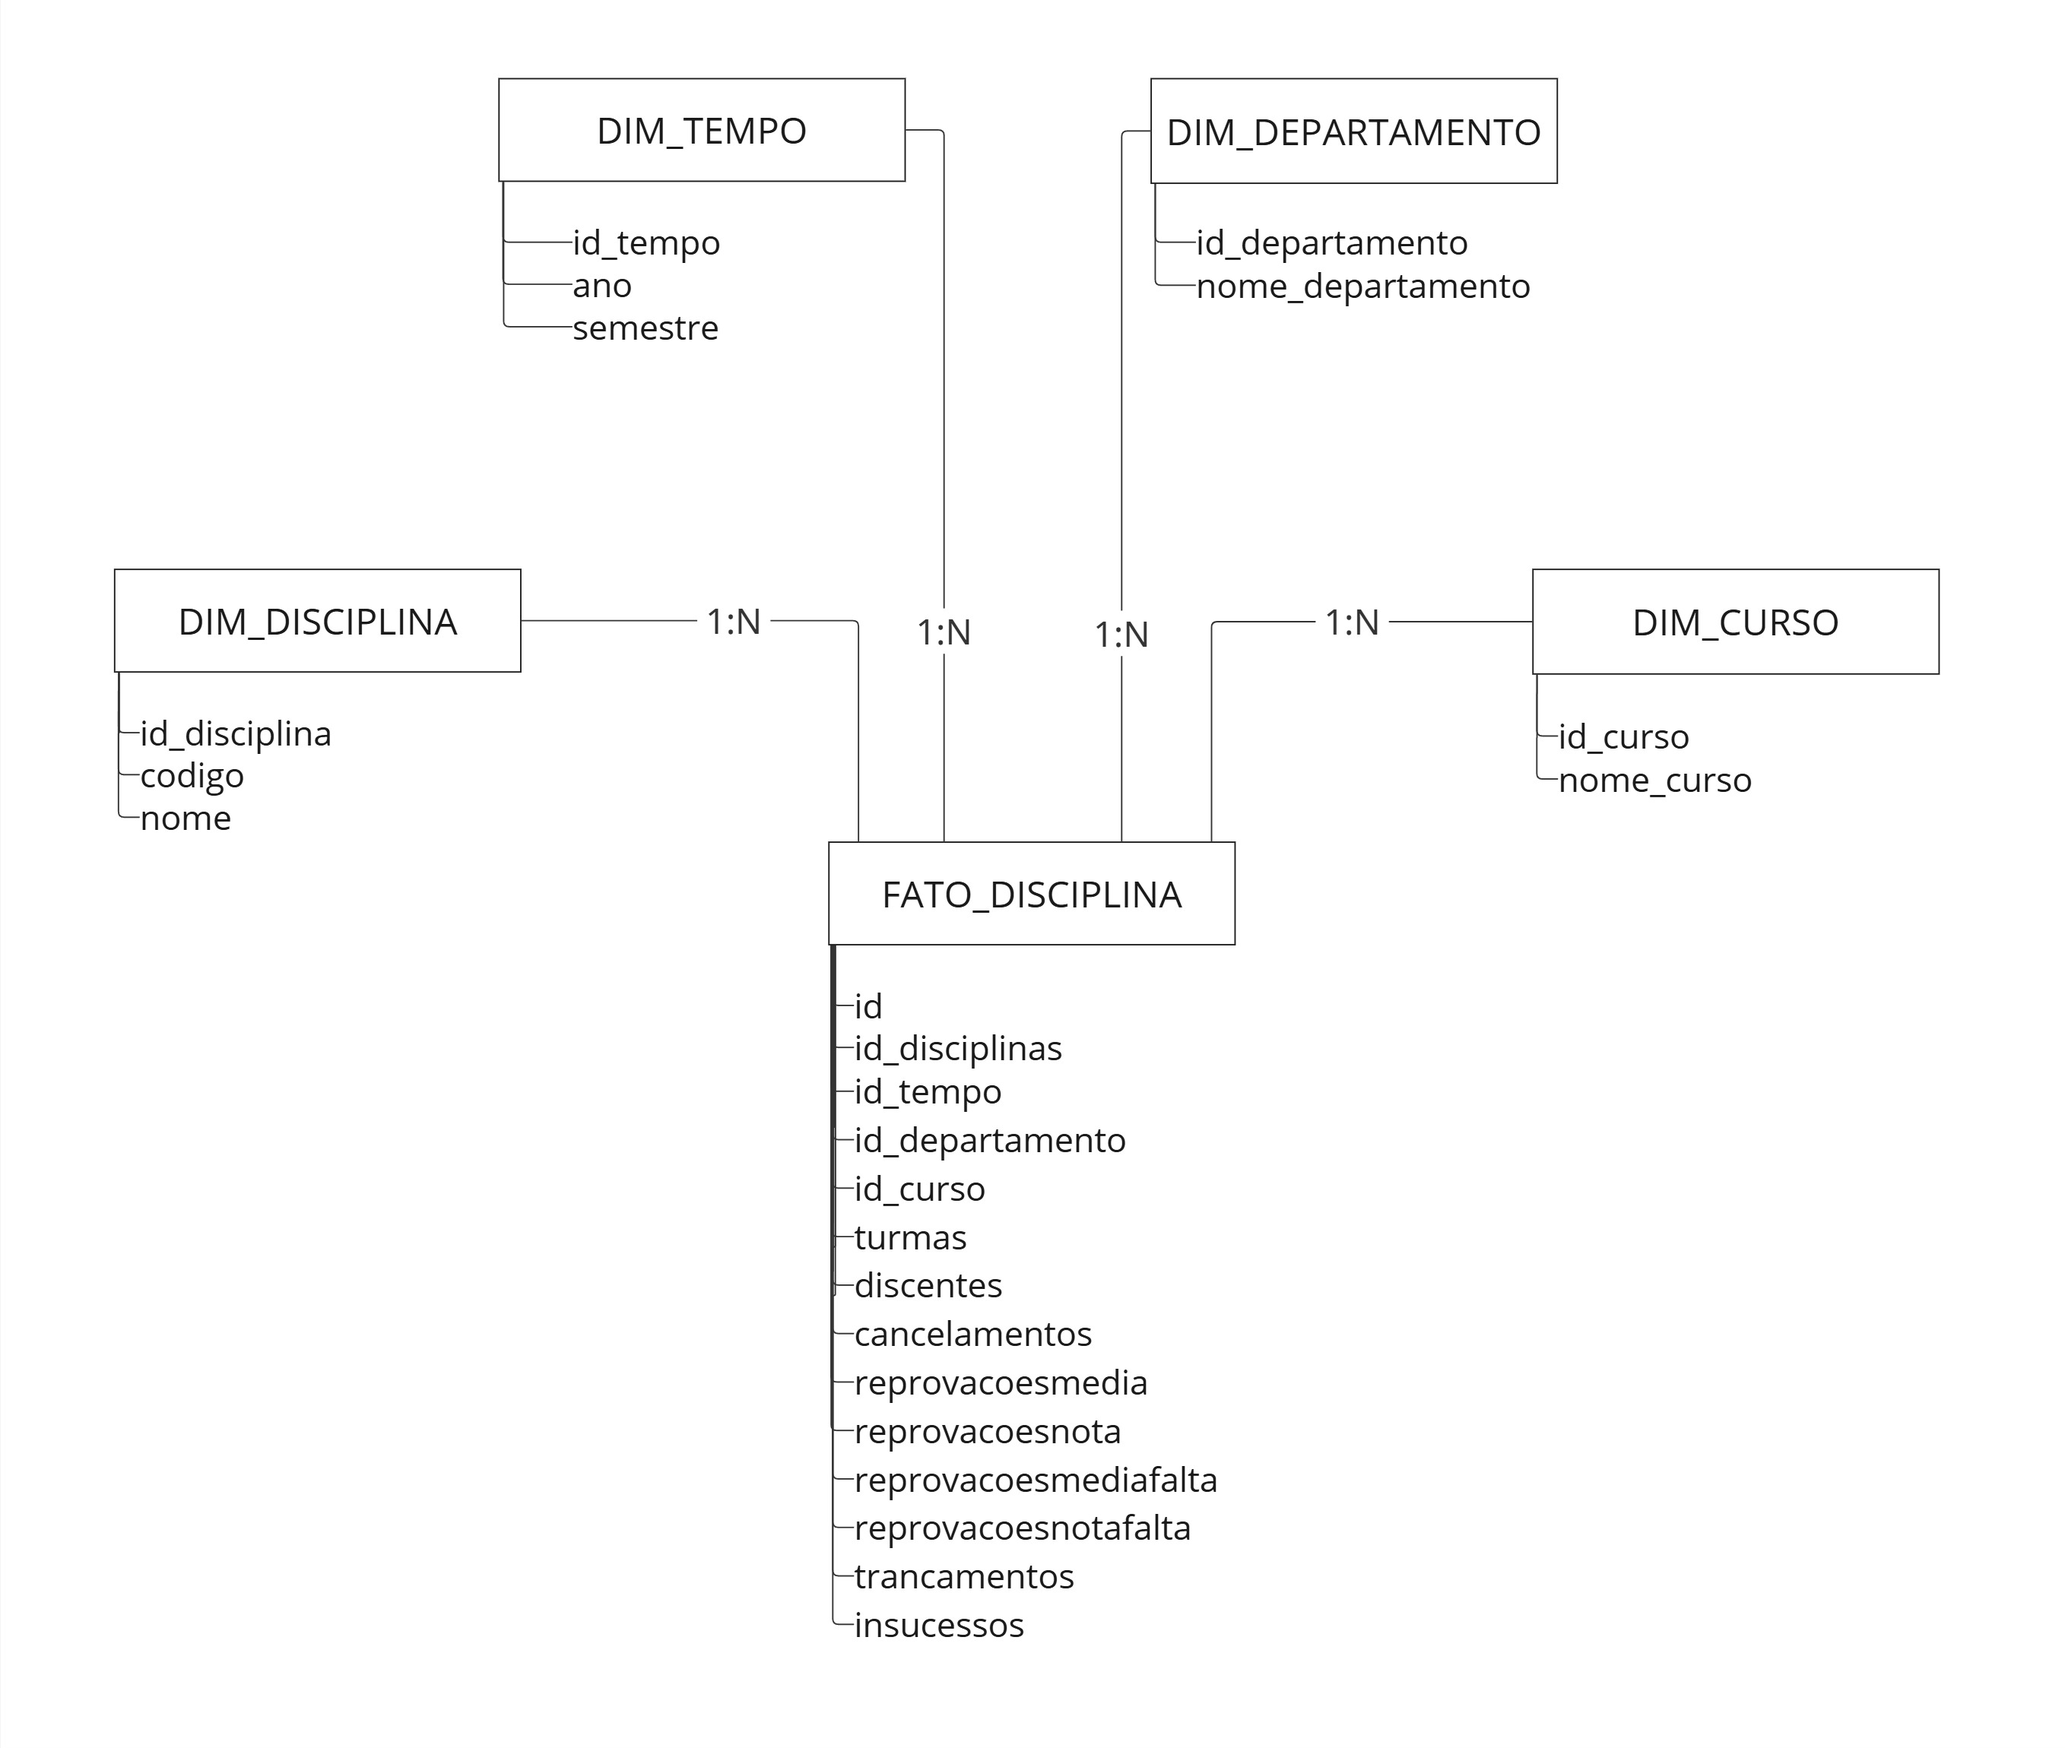
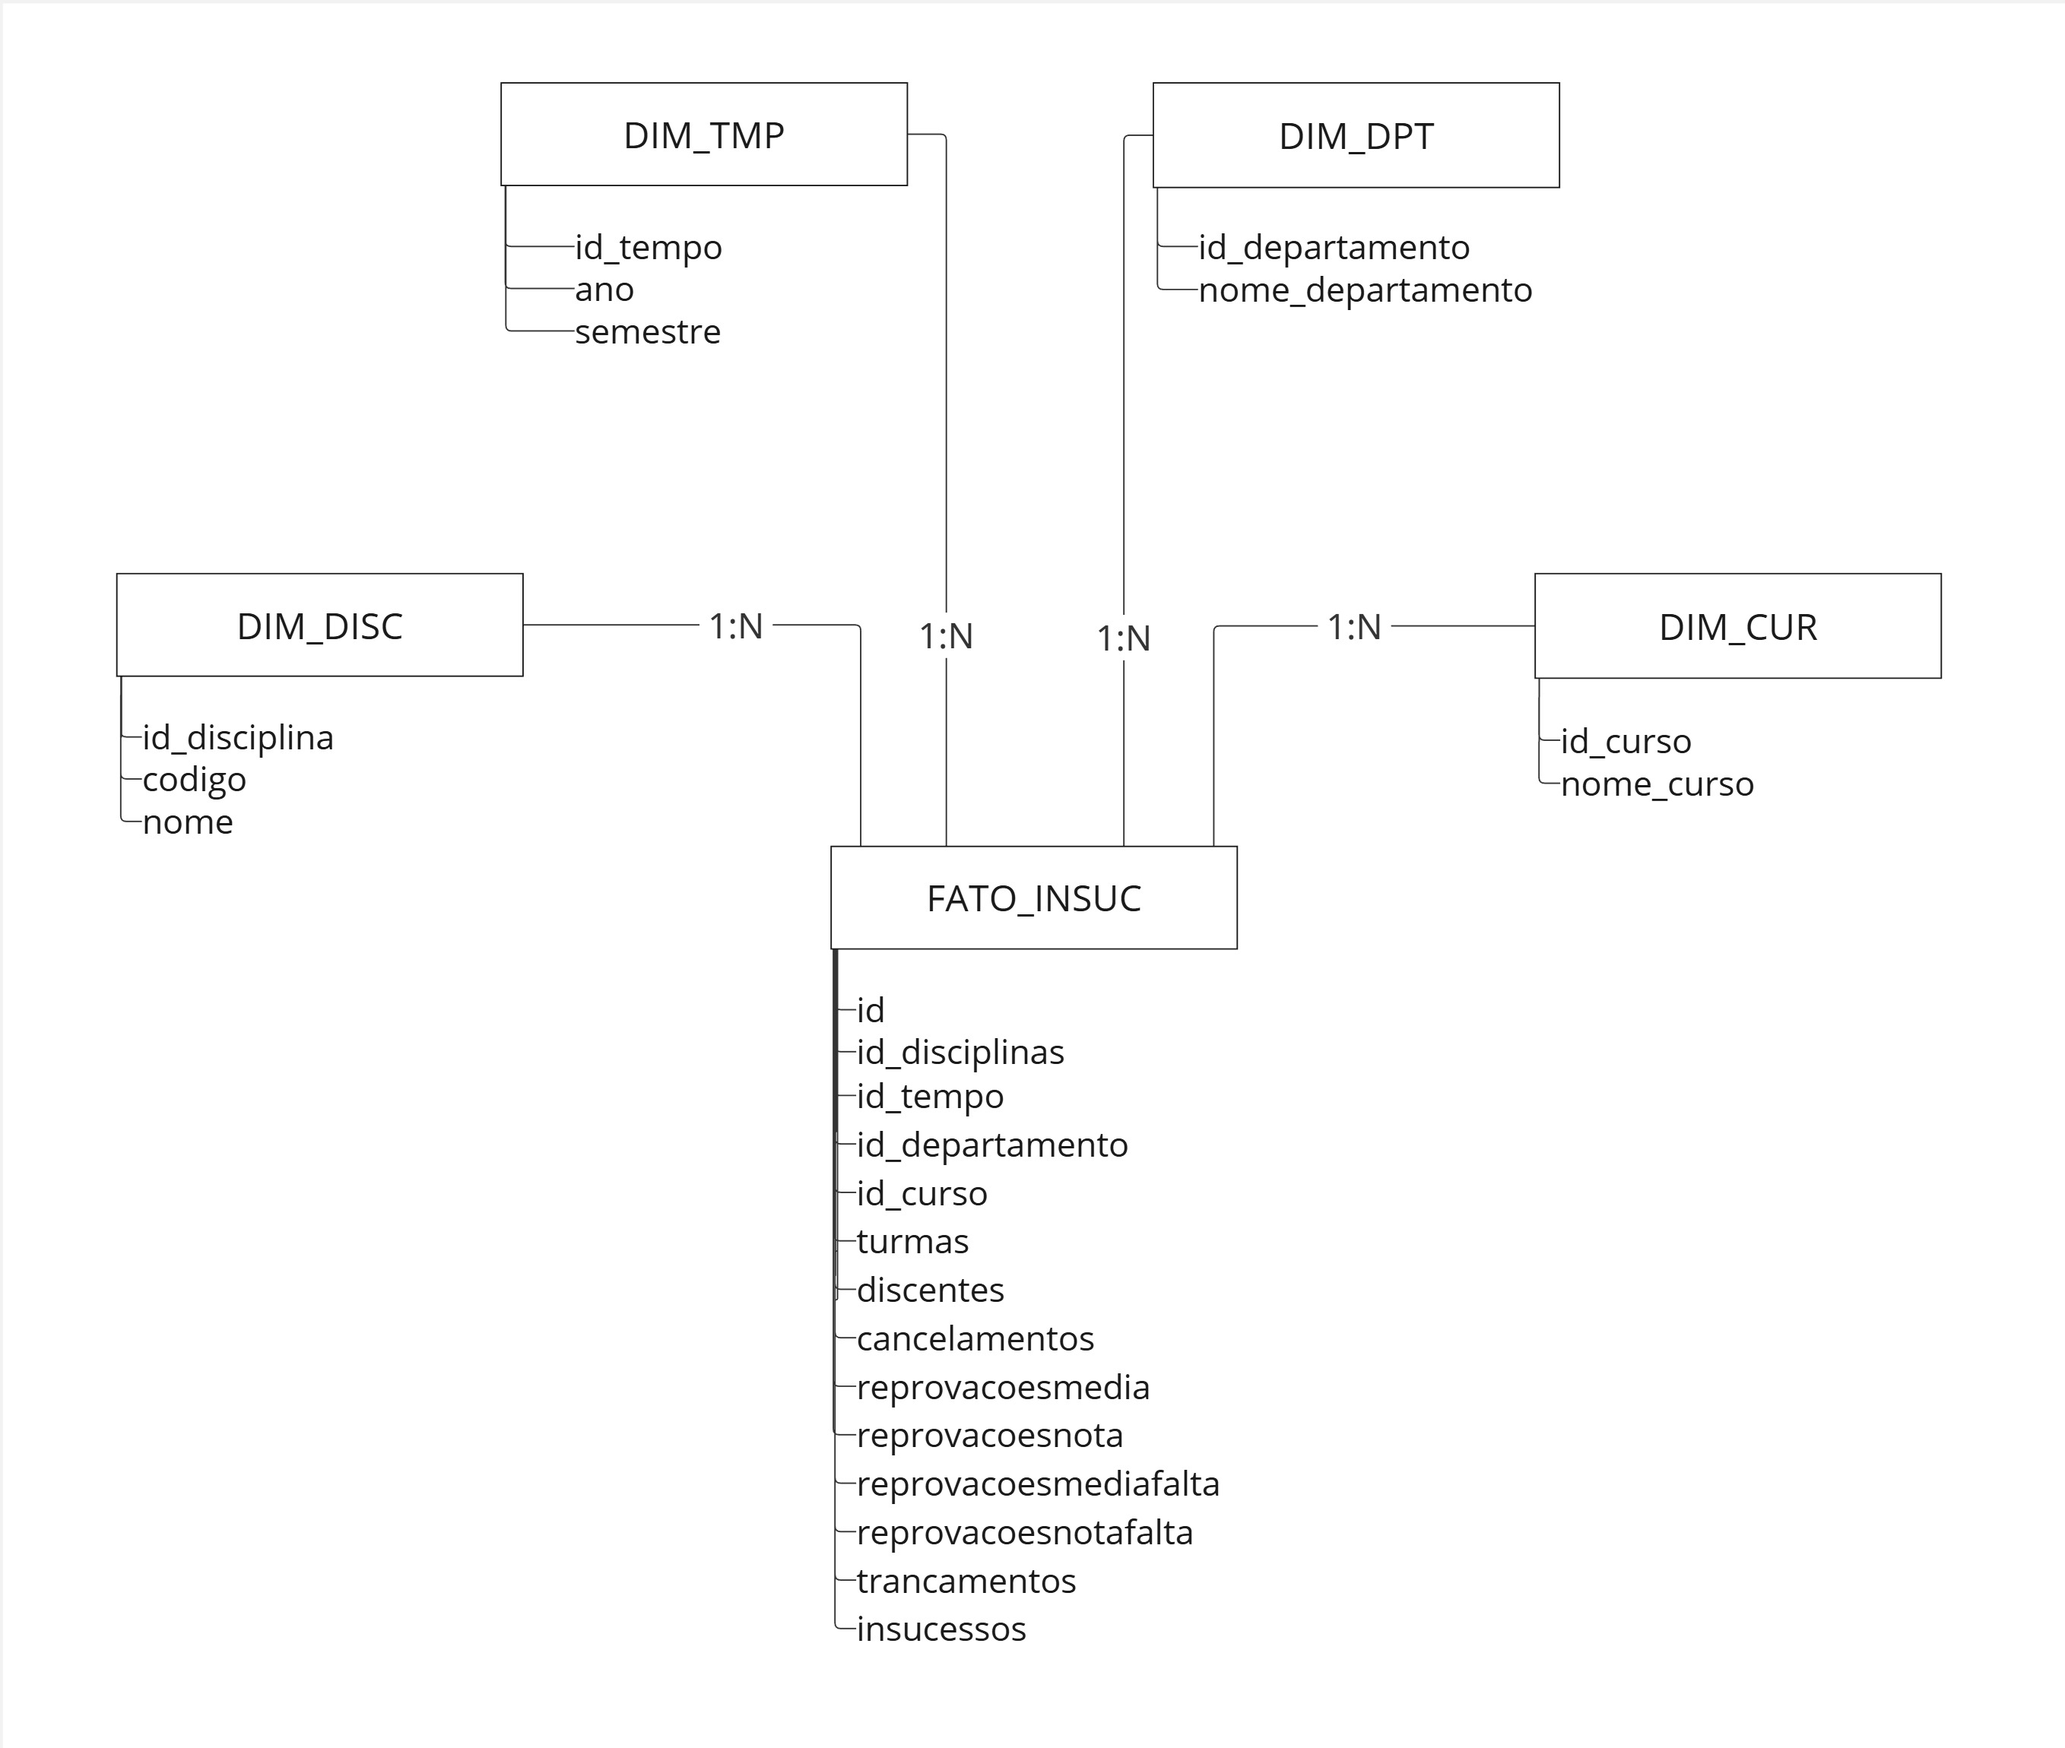
atualiza mer der e dld

diff --git a/Data-Layer/gold/mer-der-dld.md b/Data-Layer/gold/mer-der-dld.md
@@ -184,29 +184,29 @@ O **Diagrama Entidade-Relacionamento (DER)** representa o modelo conceitual do b
 
 ```mermaid
 erDiagram
-    DIM_DISCIPLINAS {
+    DIM_DISC {
         int id_disciplina PK "Identificador único"
         string codigo "Código da disciplina"
         string nome "Nome da disciplina"
     }
     
-    DIM_TEMPO {
+    DIM_TMP {
         int id_tempo PK "Identificador único"
         int ano "Ano do semestre"
         string semestre "Semestre letivo (AAAA-S)"
     }
     
-    DIM_DEPARTAMENTO {
+    DIM_DPT {
         int id_departamento PK "Identificador único"
         string nome_departamento "Nome do departamento"
     }
     
-    DIM_CURSO {
+    DIM_CUR {
         int id_curso PK "Identificador único"
         string nome_curso "Nome do curso"
     }
     
-    FATO_DISCIPLINAS {
+    FATO_INSUC {
         int id PK "Identificador único"
         int id_disciplina FK "Referência à disciplina"
         int id_tempo FK "Referência ao tempo"
